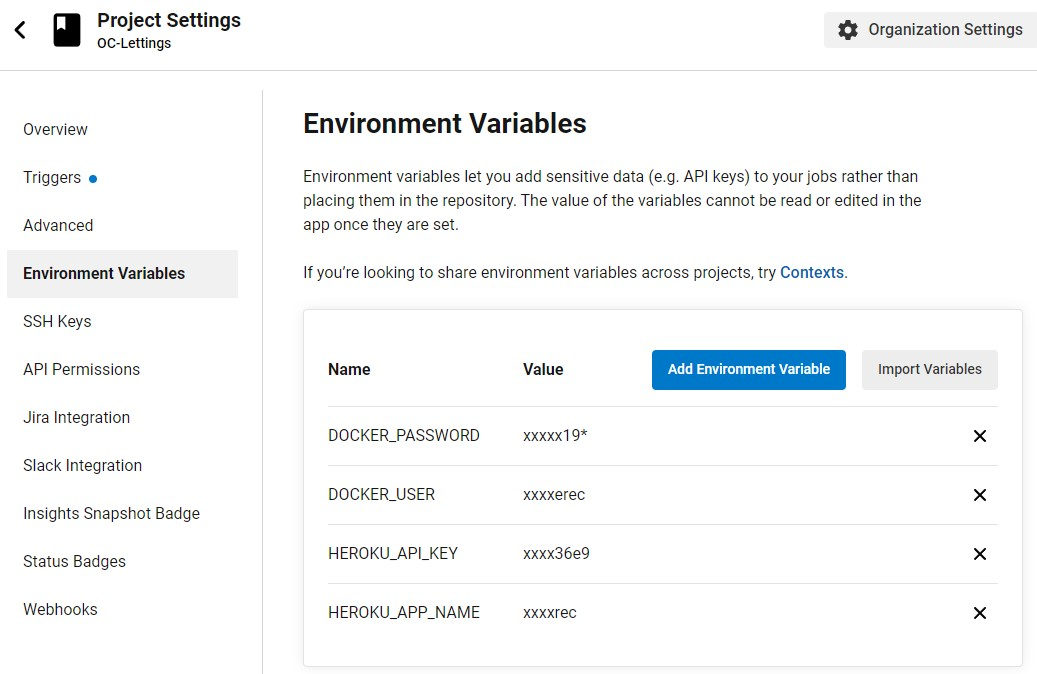
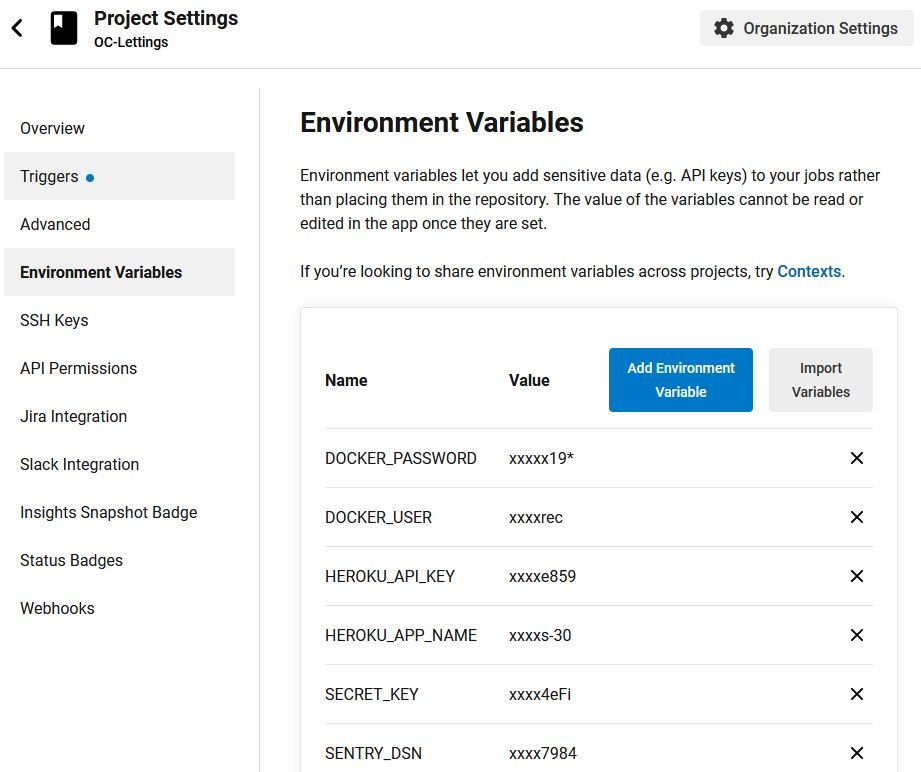
Update README and image for Sentry adding

diff --git a/README.md b/README.md
@@ -193,7 +193,7 @@ pytest
 
 ## Deployment
 
-The application is deployed on **Heroku** using **CircleCi** pipeline and **Docker** container.  
+The application is deployed on **Heroku** using **CircleCi** pipeline, **Docker** container and **Sentry** for monitoring and error tracking.  
 
 ### How it's works ?
 When a developer executes a `git push` command to the `master` branch of the project, it's run a pipeline on **CircleCi** and this pipeline run a set of processess consisting of **building** and **testing** stage before **deployment**.  
@@ -220,6 +220,7 @@ Changes to other branches will only trigger testing and linting.
 * Accept to login to [CircleCI](https://circleci.com/) with your GitHub account
 * [Heroku](https://www.heroku.com/) Account
 * [Heroku CLI](https://devcenter.heroku.com/articles/heroku-cli) installed
+* [Sentry](https://sentry.io/) Account
 
 <p align="right">(<a href="#top">back to top</a>)</p>
 
@@ -237,13 +238,14 @@ Changes to other branches will only trigger testing and linting.
    ```sh
    heroku auth:token
    ```
-7. Login to **CircleCI** with your **GitHub** account ;
-8. Set up your project by selecting your `OC-Lettings` repository and the `config.yml` file from `master` branch ;  
-  <a href="https://github.com/KDerec/OC-Lettings/blob/master/images/set_up_project_circleci.jpg"><img src="images/set_up_project_circleci.jpg" alt="set-up-project-from-circleci-webpage" width="25%" height="25%"></a>
-1. You will see your project and it's status will be `Failed`, but it's **normal**, because we haven't configured the project yet ;  
-2. To do that, go to `Project Settings` ;  
-  <a href="https://github.com/KDerec/OC-Lettings/blob/master/images/project_setting_circleci.jpg"><img src="images/project_setting_circleci.jpg" alt="project-settings-from-circleci-webpage" width="40%" height="40%"></a>
-1.  Add environment variables below ;  
+7. Connected to **Sentry**, [create a new projet](https://docs.sentry.io/product/sentry-basics/integrate-frontend/create-new-project/) and retrieve your [DSN key](https://docs.sentry.io/product/sentry-basics/dsn-explainer/) ;
+8. Login to **CircleCI** with your **GitHub** account ;
+9. Set up your project by selecting your `OC-Lettings` repository and the `config.yml` file from `master` branch ;  
+  <a href="https://github.com/KDerec/OC-Lettings/blob/master/images/set_up_project_circleci.jpg"><img src="images/set_up_project_circleci.jpg" alt="set-up-project-from-circleci-webpage" width="50%" height="50%"></a>
+10. You will see your project and it's status will be `Failed`, but it's **normal**, because we haven't configured the project yet ;  
+11. To do that, go to `Project Settings` ;  
+  <a href="https://github.com/KDerec/OC-Lettings/blob/master/images/project_setting_circleci.jpg"><img src="images/project_setting_circleci.jpg" alt="project-settings-from-circleci-webpage" width="50%" height="50%"></a>
+12.  Add environment variables below ;  
 
   | Name            | Value                                                               |
   |-----------------|---------------------------------------------------------------------|
@@ -251,10 +253,12 @@ Changes to other branches will only trigger testing and linting.
   | DOCKER_USER     | Your docker username account                                        |
   | HEROKU_API_KEY  | The token you generated before with the `heroku auth:token` command |
   | HEROKU_APP_NAME | The name of the app you created in Heroku                           |
+  | SECRET_KEY      | Your Django secret key                                              |
+  | SENTRY_DSN      | Your DSN key from Sentry                            |
 
-  <a href="https://github.com/KDerec/OC-Lettings/blob/master/images/env_var_circleci.jpg"><img src="images/env_var_circleci.jpg" alt="environement-variable-from-circleci-webpage" width="35%" height="35%"></a>  
-12. Go back to the [pipelines of the project](https://app.circleci.com/pipelines), rerun the workflow and wait until `Success` ;  
-13. Go to heroku dashboard, open your app and congratulation, it's **deploy** ! 🎉
+  <a href="https://github.com/KDerec/OC-Lettings/blob/master/images/env_var_circleci.jpg"><img src="images/env_var_circleci.jpg" alt="environement-variable-from-circleci-webpage" width="50%" height="50%"></a>  
+13.  Go back to the [pipelines of the project](https://app.circleci.com/pipelines), rerun the workflow and wait until `Success` ;  
+14.  Go to heroku dashboard, open your app and congratulation, it's **deploy** ! 🎉
 
 <p align="right">(<a href="#top">back to top</a>)</p>
 
